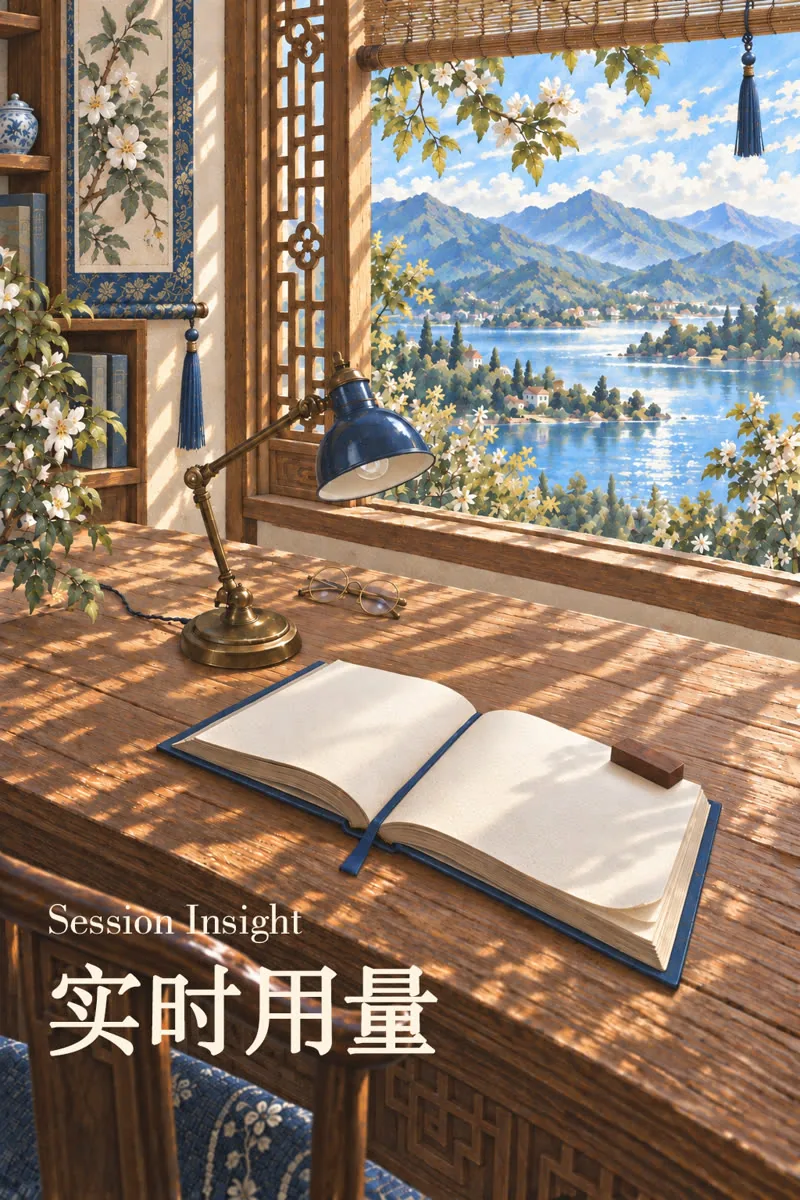
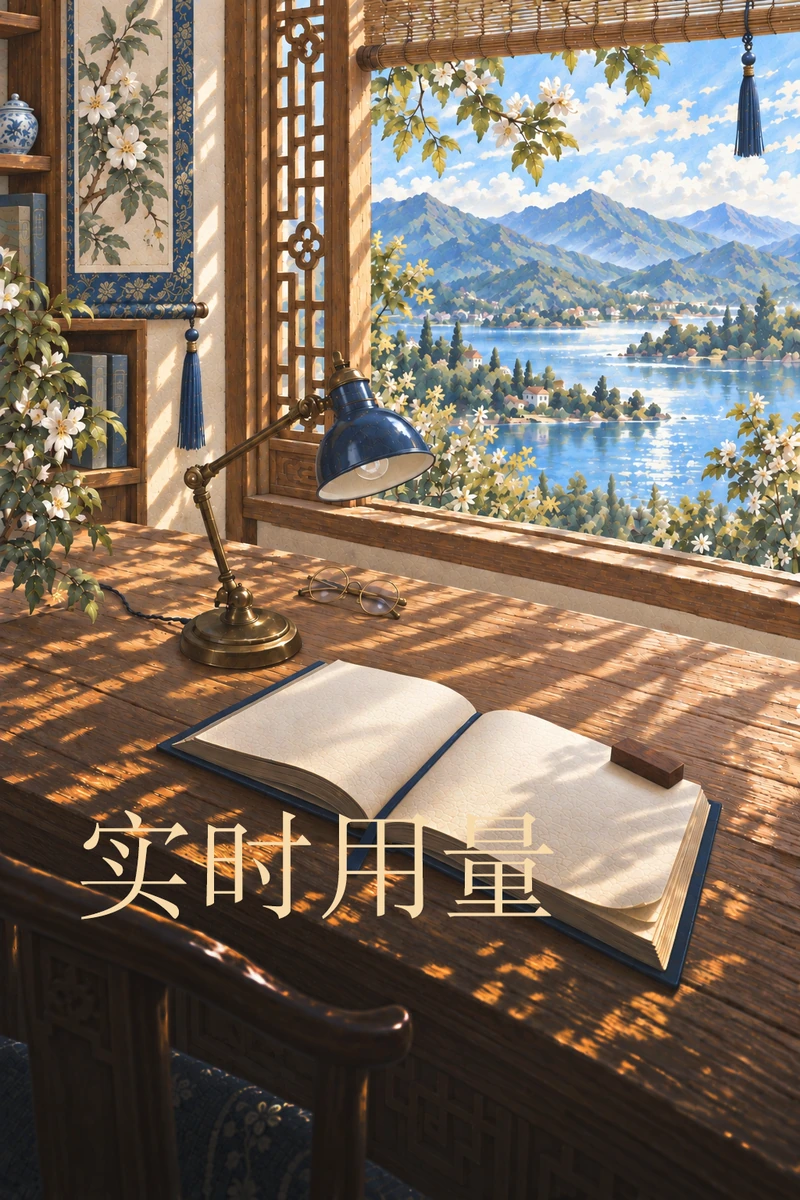
fix: 设置页补上 hana.ready()；更换两张卡片封面
- 设置页只 import SDK 却未调用 hana.ready()，宿主 5 秒内收不到 ready 消息即判失败（设置页 readyOnTimeout 为 false，卡片那条路则宽容），补上调用
- 卡片封面换成新图，转 webp q90（297KB / 266KB）；宿主 face.image 只接受 png/webp/svg

diff --git a/ui/assets/settings.js b/ui/assets/settings.js
@@ -1,7 +1,10 @@
 // assets/settings.js — Session Insight 设置页
-// 必须 import SDK：宿主靠这一步完成握手，才认这个页面是「已就绪的 App 页面」。
-// 少了它，设置页会一直停在「应用加载失败」。
-import "./sdk.js";
+// 必须 import SDK 并调用 hana.ready()：宿主收到这条 ready 消息才认页面就绪，
+// 5 秒内收不到就一律显示「应用加载失败」（宿主对设置页传的 readyOnTimeout 为 false）。
+// 只 import 而不调用 ready，页面会一直卡在失败态。
+import { hana } from "./sdk.js";
+
+hana.ready();
 
 const APP_ID = "session-insight-v2";
 const ss = new URLSearchParams(location.search).get("appSurfaceSession") || "";
